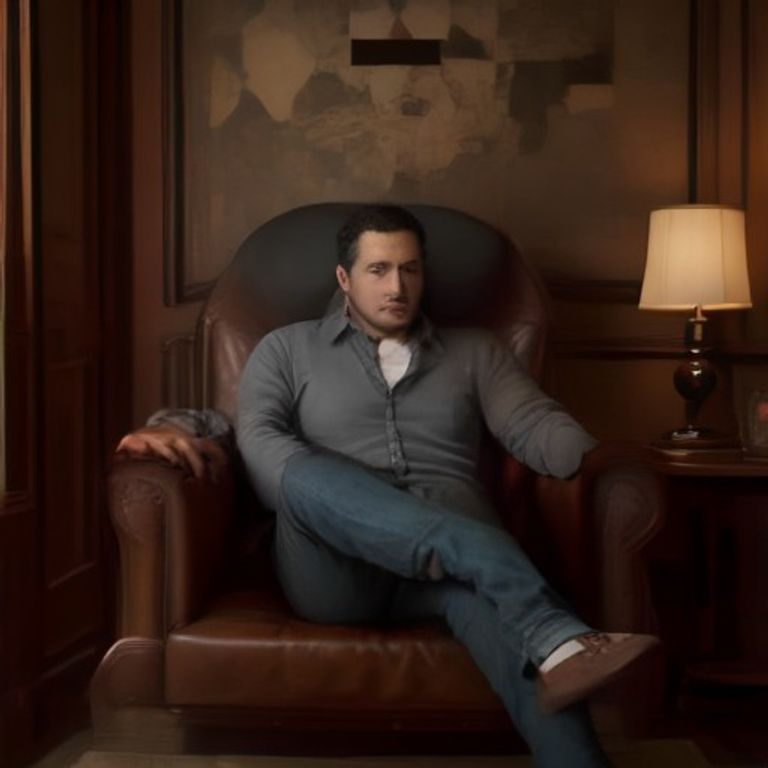
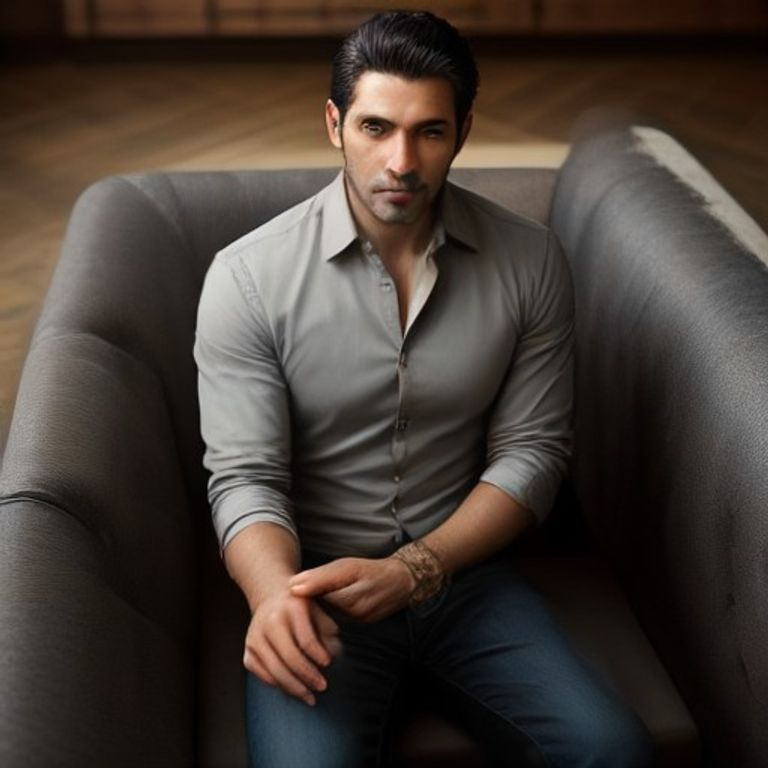
fix: actualizar mueble de zapatería - banca grande para 6-7 personas, André en la mitad

diff --git a/scripts/fix_scene03.py b/scripts/fix_scene03.py
@@ -1,0 +1,28 @@
+import requests
+import os
+import urllib.parse
+
+OUTPUT_DIR = r"E:\videoclip-project\storyboard\imagenes"
+
+ANDRE = "a 40 year old latin man, mature handsome face, slight stubble, warm brown skin, confident expression, dark hair with some gray, fit build, wearing an elegant casual button-up shirt with sleeves rolled up, dark jeans, leather shoes"
+
+STYLE_LLANERO = "photorealistic digital painting, warm cinematic lighting, golden hour tones, Venezuelan llanero aesthetic, professional cinematography look, sharp details, beautiful bokeh background, color grading warm orange and gold tones, 8k quality, professional music video still"
+
+# Mueble grande tipo banca que sienta 6-7 personas
+prompt = f"Medium shot of {ANDRE} sitting in the exact middle of a very large luxurious upholstered bench or long sofa in an elegant shoe store, the bench is big enough to seat 6 to 7 people, he sits in the center leaving space on both sides, relaxed confident pose with arms spread along the backrest, surrounded by beautiful shoes on illuminated shelves, warm golden lighting from above, he is waiting patiently, the large bench dominates the center of the store, {STYLE_LLANERO}"
+
+encoded = urllib.parse.quote(prompt)
+url = f"https://image.pollinations.ai/prompt/{encoded}?width=1024&height=1024&nologo=true&seed=3003&model=flux"
+
+print("Generating 03_andre_sienta.png with large bench...")
+try:
+    resp = requests.get(url, timeout=180)
+    if resp.status_code == 200 and len(resp.content) > 1000:
+        filepath = os.path.join(OUTPUT_DIR, "03_andre_sienta.png")
+        with open(filepath, "wb") as f:
+            f.write(resp.content)
+        print(f"OK - {len(resp.content)} bytes")
+    else:
+        print(f"FAIL - HTTP {resp.status_code}")
+except Exception as e:
+    print(f"FAIL - {e}")

diff --git a/docs/02-guion-visual.md b/docs/02-guion-visual.md
@@ -7,7 +7,7 @@
 | 0:00 - 0:05 | Intro instrumental | La zapatería vacía, se encienden las luces | Plano general cenital |
 | 0:05 - 0:12 | Intro | André abre la puerta y entra | Plano general → Plano medio |
 | 0:12 - 0:18 | Intro | Camina por la zapatería, mira los zapatos | Travelling siguiéndolo |
-| 0:18 - 0:25 | Intro | Se sienta en el sillón del centro | Plano medio → Plano detalle (sentarse) |
+| 0:18 - 0:25 | Intro | Se sienta en el **mueble-grande tipo banca** (6-7 personas), en toda la mitad | Plano medio → Plano detalle (sentarse) |
 
 ---
 
